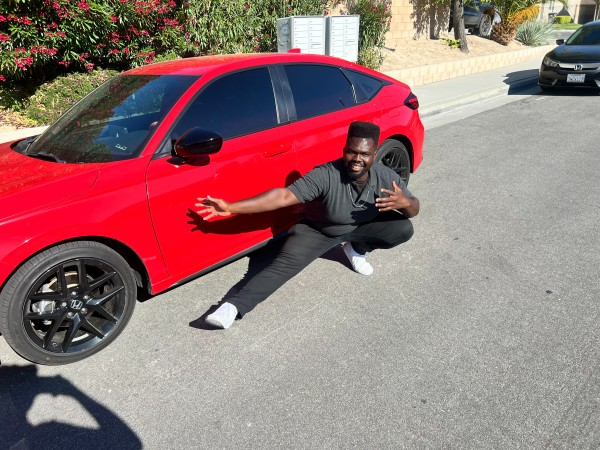
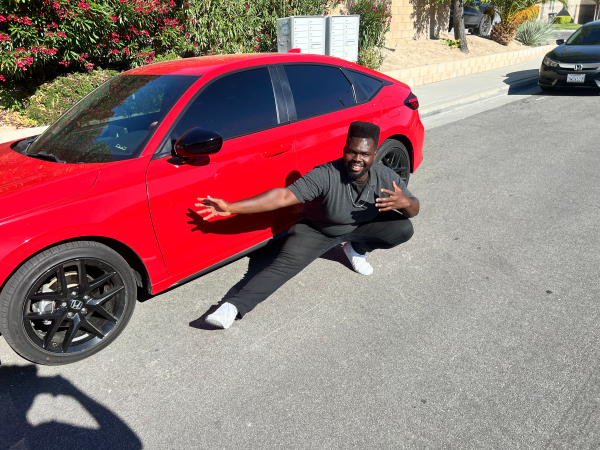
reduce specials image sizes

diff --git a/components/Specials.tsx b/components/Specials.tsx
@@ -35,9 +35,9 @@ export function TracingBeamDemo() {
               <Image
                 src={item.image}
                 alt="blog thumbnail"
-                height="1000"
-                width="1000"
-                className="rounded-lg  lg:w-1/2 lg:h-1/2 w-11/12 h-11/12"
+                height="600"
+                width="600"
+                className="rounded-lg lg:w-1/2 lg:h-1/2 w-11/12 h-11/12"
               />
             )}
           </div>
